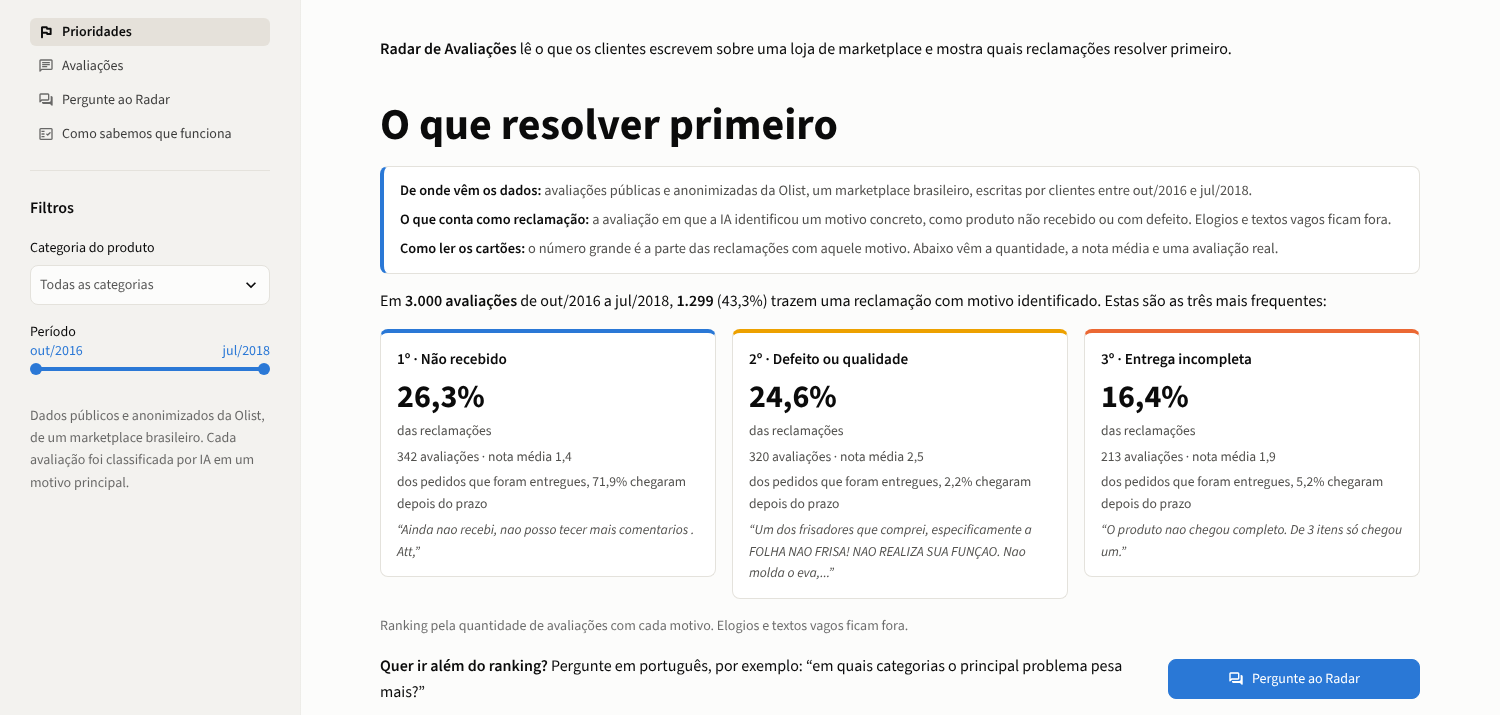
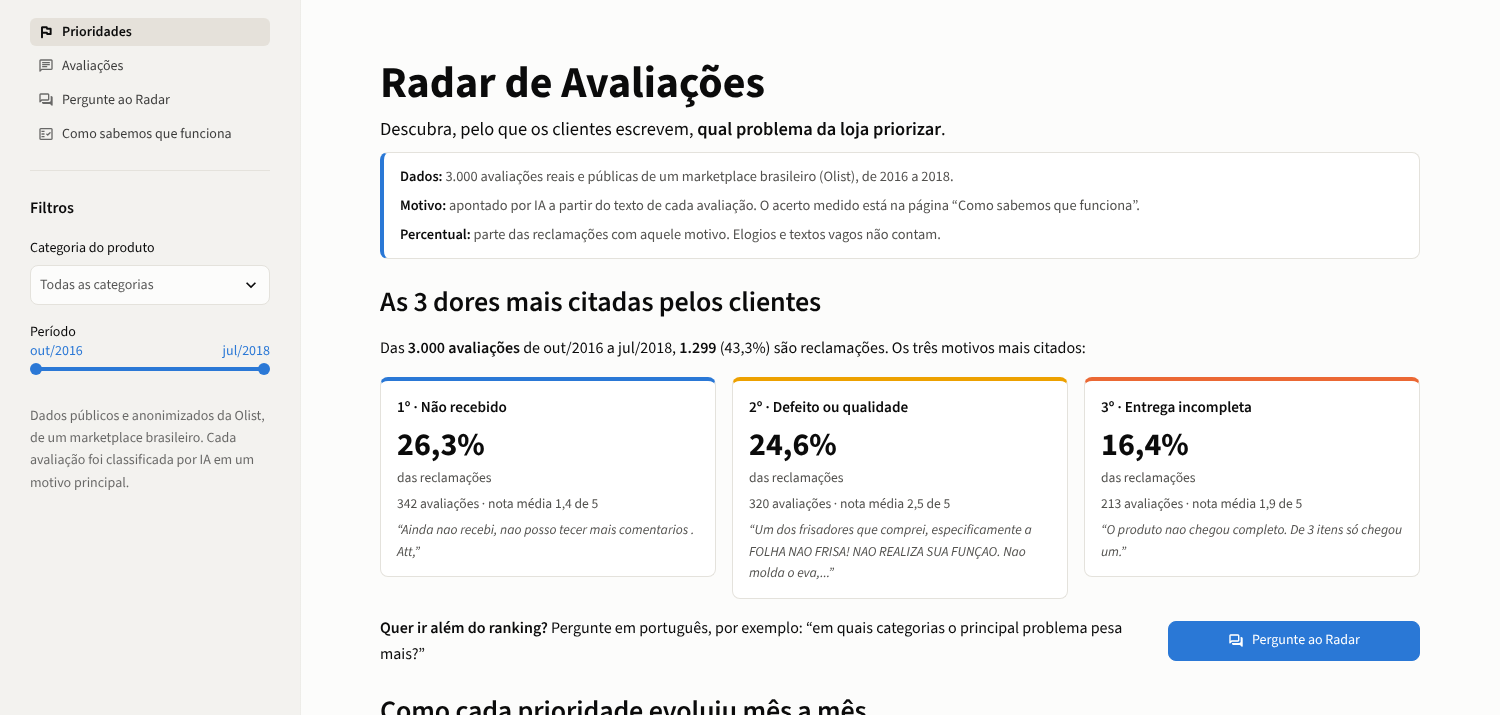
Primeira tela: título e contexto modificados e entrada animada

diff --git a/app/paginas/prioridades.py b/app/paginas/prioridades.py
@@ -11,58 +11,61 @@ from radar.metricas import (
 tabela = c.filtros_na_barra_lateral()
 resumo = resumo_geral(tabela)
 
-# Identificação do app antes do título. Uma pessoa de fora da área apontou
-# que a primeira tela não dizia o que é o app nem qual é o objetivo dele.
-st.markdown(
-    "**Radar de Avaliações** lê o que os clientes escrevem sobre uma loja de marketplace "
-    "e mostra quais reclamações resolver primeiro."
-)
-st.title("O que resolver primeiro")
-
-# Contexto antes dos números. As três pessoas que testaram o app pediram uma
-# apresentação dos dados. Fica em um bloco curto, e não em uma página
-# separada, para as prioridades continuarem aparecendo sem nenhum clique.
+# Topo da página. O nome do app é o título, e a frase abaixo diz em linguagem
+# simples o que ele faz. Quatro pessoas que abriram o app pediram isso de
+# formas diferentes: as duas primeiras sentiram falta de uma apresentação, e a
+# quarta, pelo celular, pediu um título que se explicasse sozinho.
 base_inteira = c.dados()
+st.title("Radar de Avaliações")
+st.markdown(
+    "<div style='font-size:1.15rem;color:#0b0b0b;margin:-10px 0 8px'>Descubra, pelo que os clientes escrevem, "
+    "<b>qual problema da loja priorizar</b>.</div>",
+    unsafe_allow_html=True,
+)
+
+# Contexto sempre visível, em três linhas curtas. Três pessoas pediram contexto
+# antes dos números, e a quarta achou a tela com texto demais. Por isso o bloco
+# ficou com cerca de metade do texto, sem esconder o que é preciso para ler os
+# números: de onde vêm os dados, quem aponta o motivo e o que o percentual mede.
 c.bloco_de_contexto(
     [
         (
-            "De onde vêm os dados:",
-            "avaliações públicas e anonimizadas da Olist, um marketplace brasileiro, escritas por clientes "
-            f"entre {c.mes_ano(base_inteira['data_avaliacao'].min())} e "
-            f"{c.mes_ano(base_inteira['data_avaliacao'].max())}.",
+            "Dados:",
+            f"{c.numero(len(base_inteira))} avaliações reais e públicas de um marketplace brasileiro (Olist), "
+            f"de {base_inteira['data_avaliacao'].min().year} a {base_inteira['data_avaliacao'].max().year}.",
         ),
         (
-            "O que conta como reclamação:",
-            "a avaliação em que a IA identificou um motivo concreto, como produto não recebido ou com defeito. "
-            "Elogios e textos vagos ficam fora.",
+            "Motivo:",
+            "apontado por IA a partir do texto de cada avaliação. O acerto medido está na página "
+            "“Como sabemos que funciona”.",
         ),
         (
-            "Como ler os cartões:",
-            "o número grande é a parte das reclamações com aquele motivo. Abaixo vêm a quantidade, "
-            "a nota média e uma avaliação real.",
+            "Percentual:",
+            "parte das reclamações com aquele motivo. Elogios e textos vagos não contam.",
         ),
     ]
 )
+
+st.subheader("As 3 dores mais citadas pelos clientes")
 
 if resumo["avaliacoes"] == 0:
     st.info("Nenhuma avaliação com esses filtros. Amplie o período ou escolha outra categoria.")
     st.stop()
 
 st.markdown(
-    f"Em **{c.numero(resumo['avaliacoes'])} avaliações** de {c.mes_ano(resumo['inicio'])} "
+    f"Das **{c.numero(resumo['avaliacoes'])} avaliações** de {c.mes_ano(resumo['inicio'])} "
     f"a {c.mes_ano(resumo['fim'])}, **{c.numero(resumo['reclamacoes'])}** "
-    f"({c.pct(resumo['pct_reclamacoes'])}) trazem uma reclamação com motivo identificado. "
-    "Estas são as três mais frequentes:"
+    f"({c.pct(resumo['pct_reclamacoes'])}) são reclamações. Os três motivos mais citados:"
 )
 
 top = prioridades(tabela, 3)
 colunas = st.columns(3)
 for posicao, (coluna, linha) in enumerate(zip(colunas, top.itertuples()), start=1):
+    # O cartão fica com o essencial. A comparação com as datas de entrega
+    # saiu daqui e continua na última seção da página.
     linhas = [
-        f"{c.numero(linha.quantidade)} avaliações · nota média {c.decimal(linha.nota_media)}",
+        f"{c.numero(linha.quantidade)} avaliações · nota média {c.decimal(linha.nota_media)} de 5",
     ]
-    if linha.pct_atrasados is not None and linha.pct_atrasados == linha.pct_atrasados:
-        linhas.append(f"dos pedidos que foram entregues, {c.pct(linha.pct_atrasados)} chegaram depois do prazo")
     exemplo = exemplos(tabela, linha.motivo, 1)
     if not exemplo.empty:
         texto = exemplo.loc[0, "texto"]
@@ -77,7 +80,6 @@ for posicao, (coluna, linha) in enumerate(zip(colunas, top.itertuples()), start=
         )
 
 st.write("")
-st.caption("Ranking pela quantidade de avaliações com cada motivo. Elogios e textos vagos ficam fora.")
 
 # Atalho para o agente. No celular o menu lateral começa fechado, então sem
 # este botão o visitante pode sair sem saber que dá para perguntar.
@@ -130,11 +132,14 @@ if not top.empty:
     st.markdown("**Quantidade de reclamações com este motivo**")
     st.altair_chart(grafico_da_quantidade, width="stretch")
     st.caption(
-        f"Meses em cinza têm menos de {MINIMO_DE_RECLAMACOES_NO_MES} reclamações no total: neles, poucos casos "
-        "mudam muito o percentual, por isso ficam fora da linha. A quantidade também sobe quando o mês tem mais "
-        "avaliações, então a tendência se lê pelo primeiro gráfico. Usamos as datas reais das avaliações, "
-        "sem previsão."
+        f"Meses em cinza têm poucas reclamações (menos de {MINIMO_DE_RECLAMACOES_NO_MES}) e ficam fora da linha."
     )
+    with st.expander("Como ler estes gráficos"):
+        st.markdown(
+            "- Nos meses em cinza, poucos casos mudam muito o percentual. Por isso eles não entram na linha.\n"
+            "- A quantidade também sobe quando o mês tem mais avaliações. A tendência se lê pelo primeiro gráfico.\n"
+            "- Usamos as datas reais das avaliações. Não há previsão."
+        )
 
 st.subheader("Todos os motivos de reclamação")
 ranking = ranking_motivos(tabela)

diff --git a/app/app.py b/app/app.py
@@ -2,7 +2,40 @@
 
 import streamlit as st
 
-st.set_page_config(page_title="Radar de Avaliações", page_icon="📡", layout="wide")
+st.set_page_config(page_title="Radar de Avaliações: qual problema da loja priorizar", page_icon="📡", layout="wide")
+
+# Entrada animada, sugerida por quem abriu o app pelo celular. Aparece uma vez
+# por visita e some sozinha em cerca de 1,4 segundo. É só CSS: os dados carregam
+# por baixo dela, deixa os cliques passarem e não aparece para quem
+# pediu menos animações no aparelho. Para desligar, basta apagar este bloco.
+ENTRADA = """
+<style>
+div[data-testid="stElementContainer"]:has(.radar-entrada) { position: absolute; }
+.radar-entrada { position: fixed; inset: 0; z-index: 999999; background: #fcfcfb; display: flex;
+  flex-direction: column; align-items: center; justify-content: center; gap: 18px; pointer-events: none;
+  animation: radar-sair 0.4s ease 1s forwards; }
+.radar-sinal { position: relative; width: 96px; height: 96px; }
+.radar-sinal span { position: absolute; inset: 0; border: 3px solid #2a78d6; border-radius: 50%; opacity: 0;
+  animation: radar-onda 1s ease-out infinite; }
+.radar-sinal span:nth-child(2) { animation-delay: 0.2s; }
+.radar-sinal span:nth-child(3) { animation-delay: 0.4s; }
+.radar-sinal i { position: absolute; left: 50%; top: 50%; width: 18px; height: 18px; margin: -9px 0 0 -9px;
+  border-radius: 50%; background: #2a78d6; }
+.radar-nome { font-size: 1.6rem; font-weight: 700; color: #0b0b0b; }
+.radar-frase { font-size: 0.95rem; color: #52514e; margin-top: -12px; }
+@keyframes radar-onda { 0% { transform: scale(0.2); opacity: 0.9; } 100% { transform: scale(1); opacity: 0; } }
+@keyframes radar-sair { to { opacity: 0; visibility: hidden; } }
+@media (prefers-reduced-motion: reduce) { .radar-entrada { display: none; } }
+</style>
+<div class="radar-entrada" aria-hidden="true">
+<div class="radar-sinal"><span></span><span></span><span></span><i></i></div>
+<div class="radar-nome">Radar de Avaliações</div>
+<div class="radar-frase">Qual problema priorizar?</div>
+</div>
+"""
+if "entrada_exibida" not in st.session_state:
+    st.session_state["entrada_exibida"] = True
+    st.markdown(ENTRADA, unsafe_allow_html=True)
 
 paginas = st.navigation(
     [

diff --git a/docs/teste_de_clareza.md b/docs/teste_de_clareza.md
@@ -42,6 +42,16 @@ Uma terceira pessoa, também conhecida do autor, recebeu o mesmo link e responde
 | 7 e 8 | Com esse histórico, fazer um algoritmo preditivo da tendência do indicador na semana seguinte |
 | 9 | Com o preditivo, criar gatilhos de ação conforme o resultado esperado |
 
+## Retorno de uma quarta pessoa, pelo celular (16/11)
+
+Em 16/11/2026, uma quarta pessoa abriu o link pelo celular e mandou três pontos livres, sem as quatro perguntas. Ela viu a versão com o bloco de contexto e a evolução mês a mês. Não registramos de que área ela é.
+
+| Ponto | O que ela disse, em resumo |
+|---|---|
+| 1 | A página ainda precisa de um título que se explique sozinho, ou de uma página inicial dedicada |
+| 2 | Sugestão: uma entrada animada ao abrir, como a tela de abertura de um aplicativo de celular |
+| 3 | Às vezes há texto demais, e os textos poderiam explicar melhor, deixando de lado as informações mais técnicas |
+
 ## O que aprendemos
 
 - **As duas entenderam para que serve o app.** A pessoa 2 identificou também o público: comerciantes e lojistas.
@@ -52,6 +62,7 @@ Uma terceira pessoa, também conhecida do autor, recebeu o mesmo link e responde
 - **Uma resposta do agente demorou cerca de 2 minutos.**
 - **Com o retorno livre, as três pessoas pediram contexto antes dos números.** A linha de identificação que tínhamos colocado não bastava: faltava dizer de onde vêm os dados e como ler a tela.
 - **A terceira pessoa quis ver o indicador no tempo.** A tela mostrava só o retrato do período inteiro.
+- **A linha de identificação e o bloco de contexto ainda não bastavam no celular.** A quarta pessoa viu os dois e mesmo assim pediu um título mais claro. Ela também achou a tela com texto demais, justamente depois de acrescentarmos o bloco de contexto que as três primeiras pediram.
 
 ## O que mudamos
 
@@ -61,12 +72,16 @@ Uma terceira pessoa, também conhecida do autor, recebeu o mesmo link e responde
 | Texto técnico em "Pergunte ao Radar" (1 de 2) | Texto simples no topo. A explicação técnica foi para um bloco recolhido, "Como a resposta é feita" | `app/paginas/pergunte.py` |
 | Contexto dos dados (retorno livre, pontos 1 e 4; com as duas primeiras respostas, 3 de 3) | Bloco de três linhas acima das prioridades: de onde vêm os dados, o que conta como reclamação e como ler os cartões | `app/paginas/prioridades.py` |
 | Evolução do indicador no tempo (retorno livre, ponto 6) | Seção "Como cada prioridade evoluiu mês a mês", com as datas reais das avaliações: parte das reclamações do mês e quantidade. Meses com menos de 30 reclamações aparecem em cinza e ficam fora da linha | `src/radar/metricas.py`, `app/comum.py` e `app/paginas/prioridades.py` |
+| Título que se explique sozinho (quarta pessoa, ponto 1) | O nome do app virou o título da página, com uma frase simples abaixo: "Descubra, pelo que os clientes escrevem, qual problema da loja priorizar". A seção das prioridades ganhou um título que diz o que está na tela: "As 3 dores mais citadas pelos clientes". O nome da aba do navegador também diz o objetivo | `app/app.py` e `app/paginas/prioridades.py` |
+| Entrada animada (quarta pessoa, ponto 2) | Entrada de cerca de 1,4 segundo com o nome do app, uma vez por visita. É só CSS, e os dados carregam por baixo dela | `app/app.py` |
+| Menos texto e menos termo técnico (quarta pessoa, ponto 3) | Na primeira tela, o bloco de contexto continua visível, com cerca de metade do texto: dados, quem aponta o motivo e o que o percentual mede. A explicação dos gráficos mês a mês ficou em uma linha, com o restante em um bloco recolhido, "Como ler estes gráficos". O cartão perdeu a linha sobre pedidos entregues depois do prazo, que continua na última seção da página | `app/paginas/prioridades.py` |
 
 ## O que não mudamos, e por quê
 
-- **Página inicial separada.** As três prioridades precisam aparecer sem nenhum clique, e uma Home colocaria um clique antes delas. A linha de identificação responde ao pedido sem esse custo.
+- **Página inicial separada.** As três prioridades precisam aparecer sem nenhum clique, e uma Home colocaria um clique antes delas. A linha de identificação responde ao pedido sem esse custo. A quarta pessoa repetiu o pedido como alternativa a um título melhor, e atendemos pelo título.
 - **Tempo de espera do agente.** Mantivemos como está e registramos como limitação. Não confirmamos a causa neste caso. A hipótese é que a API gratuita estava ocupada: quando isso acontece, o app espera e tenta de novo, e cada pergunta faz 2 ou 3 requisições.
 - **Modo escuro.** Fica como sugestão para depois.
+- **Textos das outras páginas (quarta pessoa, ponto 3).** Revisamos só a primeira tela. "Como sabemos que funciona" é técnica de propósito, porque mostra as medições.
 - **Histórico fictício, semana a semana (ponto 6).** Não usamos dado simulado em telas nem em medições. As avaliações têm data, então mostramos a evolução real. Ela é mensal, e não semanal, porque na amostra de 3.000 avaliações o volume por semana é pequeno demais: mesmo por mês, só de março de 2017 em diante há pelo menos 30 reclamações.
 - **Preditivo e gatilhos (pontos 7 a 9).** Com 17 meses de volume suficiente, não conseguimos medir o acerto de uma previsão. O caminho é classificar a base inteira, montar a série semanal e medir o preditivo em semanas reservadas. Fica para depois.
 - **Ações com estimativa de melhora (ponto 5).** O agente já sugere ações quando perguntado. Estimar quanto um indicador melhoraria, e em quanto tempo, seria um número sem base nos dados.
@@ -80,3 +95,7 @@ Uma terceira pessoa, também conhecida do autor, recebeu o mesmo link e responde
 - Não cronometramos nenhuma resposta.
 - As mudanças feitas a partir do retorno não foram testadas de novo com outras pessoas.
 - O retorno da terceira pessoa foi livre, sem as quatro perguntas, então não mede se ela identificou a prioridade número um. Não registramos qual versão do app ela viu (antes ou depois da linha de identificação) nem em qual aparelho.
+- O retorno da quarta pessoa também foi livre. Ela abriu o app pelo celular, e não registramos de que área ela é.
+- O bloco de contexto que as três primeiras pessoas pediram ficou mais curto, e a explicação longa dos gráficos ficou recolhida. Não testamos se a versão curta basta para quem queria mais contexto.
+- Chegamos a recolher o bloco de contexto inteiro e voltamos atrás antes de publicar: recolhido, quem não toca nele não vê de onde vêm os dados nem que o motivo é apontado por IA.
+- A entrada animada aparece depois do carregamento do próprio Streamlit, e não no lugar dele. Ela acrescenta cerca de 1,4 segundo até o conteúdo aparecer.

diff --git a/README.md b/README.md
@@ -43,7 +43,7 @@ Cada resultado abaixo vem acompanhado do que ele não mostra.
 | O agente inventa quando não sabe? | Em 8 perguntas-armadilha (fora do tema, dado que não existe, previsão, categoria que não existe e duas ordens embutidas), **7 passaram** no critério escrito antes da rodada. Em nenhuma das 8 o agente inventou número ou seguiu a ordem embutida | É uma rodada só, com 8 casos escritos por nós. A que não passou foi recusada como fora do tema, e o critério pedia que o agente dissesse que não tem o dado. Em uma resposta, o agente acrescentou um rascunho que ninguém pediu |
 | A automação economiza tempo? | Em teste cronometrado, feito uma vez por uma pessoa, com 20 avaliações em cada forma, a triagem levou **11 min 36 s à mão e 2 min 47 s com a automação e revisão humana** | Boa parte dos 2 min 47 s é espera entre envios. A revisão rápida aprovou 4 rascunhos que afirmavam falha da loja antes de qualquer verificação. Não convertemos o resultado em horas por mês |
 | A automação fez o que devia? | Das 20 avaliações registradas, nenhuma se repetiu e a regra da avaliação crítica foi aplicada igual à do nosso código em todas. O motivo coincidiu com o do classificador em lote em 19 de 20 | É a conferência de uma execução com 20 avaliações |
-| Quem não conhece o projeto entende o app? | Em teste de clareza com 2 pessoas que não conheciam o projeto, as duas entenderam para que ele serve e acharam útil a resposta do agente. As duas sentiram falta de uma apresentação na primeira tela, e mudamos isso. Uma terceira pessoa mandou um retorno livre pedindo contexto dos dados e evolução no tempo: acrescentamos um bloco de contexto e a evolução mês a mês, com as datas reais | São duas pessoas conhecidas do autor, e não lojistas. A pergunta sobre a prioridade número um era ambígua para a primeira pessoa e foi reescrita para a segunda, que respondeu certo |
+| Quem não conhece o projeto entende o app? | Em teste de clareza com 2 pessoas que não conheciam o projeto, as duas entenderam para que ele serve e acharam útil a resposta do agente. As duas sentiram falta de uma apresentação na primeira tela, e mudamos isso. Uma terceira pessoa mandou um retorno livre pedindo contexto dos dados e evolução no tempo: acrescentamos um bloco de contexto e a evolução mês a mês, com as datas reais. Em 16/11, uma quarta pessoa abriu o app pelo celular e pediu um título que se explicasse sozinho e menos texto técnico: o nome do app virou o título, e o bloco de contexto ficou com metade do texto | São duas pessoas conhecidas do autor, e não lojistas. A pergunta sobre a prioridade número um era ambígua para a primeira pessoa e foi reescrita para a segunda, que respondeu certo |
 
 Na validação às cegas, revisamos as 7 discordâncias pela regra escrita: 5 eram erros do modelo, 1 era ambígua e 1 era rótulo nosso errado. Contando essas duas como acerto, o teto é de 55 de 60 (91,7%), e de 25 de 30 (83,3%) nas reclamações. O número principal continua sendo o original.
 
